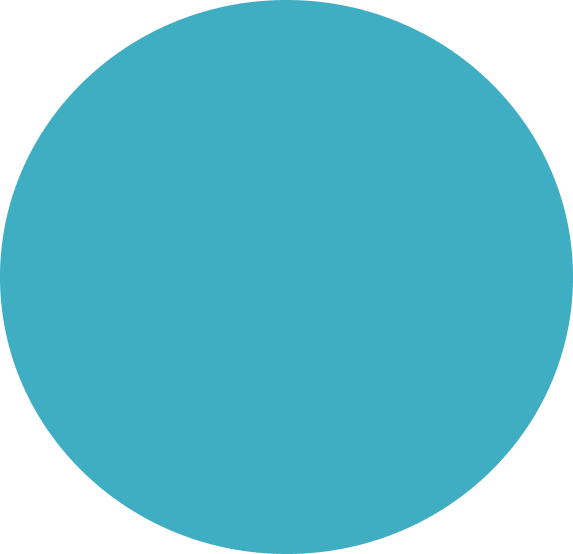
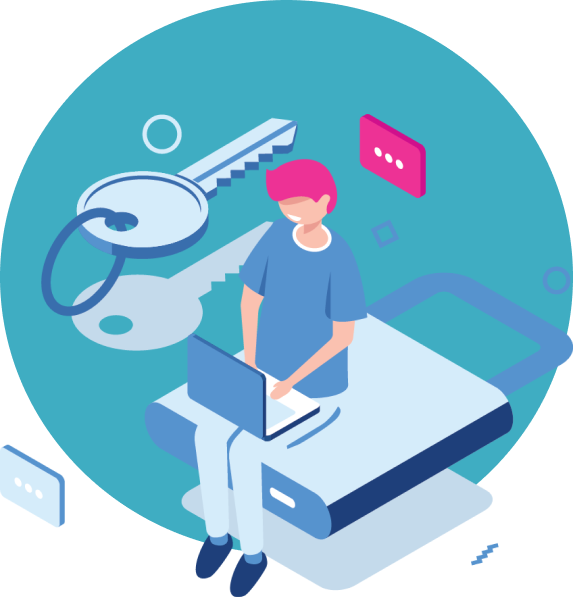
3

diff --git a/src/views/Home.vue b/src/views/Home.vue
@@ -4,15 +4,24 @@
       <v-flex md8 xl8 lg8 v-if="$vuetify.breakpoint.mdAndUp" class="background-flex1"
       >
         <img class="Ellipse" src="../assets/login/Ellipse.png" />
-        <img class="user-blue" src="../assets/login/user-blue.png" />
       </v-flex>
       <v-flex xs12 md4 xl4 lg4 class="background-flex2">
-        <img class="book" src="../assets/login/1.png" />
-        <img class="tab" src="../assets/login/2.png" />
-        <h2 class="tab-text">Welcome back</h2>
-        <v-layout row>
+        <v-layout row wrap>
           <v-flex xs12 md12 xl12 lg12>
-            <h2 class="text1">Smart</h2>
+            <img class="tab" src="../assets/login/2.png" />
+            <h2 class="tab-text">Welcome back</h2>
+          </v-flex>
+        </v-layout>
+        <v-layout
+          row
+          wrap
+          justify-center
+          align-center
+        >
+          <v-flex xs6 md6 xl6 lg6 style="text-align:right;">
+            <h2 class="text1 ">Smart</h2>
+          </v-flex>
+          <v-flex xs6 md6 xl6 lg6>
             <h2 class="text2">School</h2>
           </v-flex>
         </v-layout>
@@ -30,9 +39,11 @@
             ></v-text-field>
           </v-flex>
         </v-layout>
-        <v-layout row>
-          <v-flex xs8 md8 xl8 lg8 class="login">
-            <v-btn color="cyan darken-3" class="white--text" @click="fnLogin"> Login </v-btn>
+        <v-layout row justify-center align-center>
+          <v-flex xs12 md12 xl12 lg12 class="login">
+            <v-btn color="cyan darken-3" class="white--text" @click="fnLogin">
+              Login
+            </v-btn>
           </v-flex>
         </v-layout>
       </v-flex>
@@ -46,9 +57,9 @@ export default {
   components: {},
   methods: {
     fnLogin() {
-      this.$router.push("/index")
-    }
-  }
+      this.$router.push("/index");
+    },
+  },
 };
 </script>
 
@@ -57,35 +68,30 @@ export default {
   background-color: #0390a4;
   width: 100vw;
   height: 100vh;
+  position: relative;
 }
 .Ellipse {
-  width: 530px;
-  height: 530px;
-  margin-top: 100px;
-  margin-left: -17px;
+  /* position: absolute; */
+  width: 30rem;
+  height: 30rem;
+  margin-top: 10rem;
+  /* z-index: 2; */
+  /* margin-left: -17px; */
 }
-.user-blue {
-  width: 520px;
-  height: 450px;
-  margin-top: -400px;
-  margin-left: -17px;
-}
+
 .background-flex2 {
   background-color: #ffffff;
   width: 100vw;
   height: 100vh;
+  border-left: 1rem solid #C4C4C4;;
 }
-.book {
-  width: 1rem;
-  height: 100%;
-  float: left;
-}
+
 .tab {
   width: 349px;
   height: 74px;
   float: left;
   margin-top: 2rem;
-  margin-left: -17px;
+  margin-left: -6px;
   z-index: 1;
 }
 .tab-text {
@@ -99,21 +105,19 @@ export default {
 .text1 {
   color: #f5a82a;
   font-size: 3rem;
-  margin-top: 250px;
-  margin-left: -500px;
+  margin-top: 200px;
+   margin-right: 10px;
 }
 .text2 {
   color: #030303;
   font-size: 3rem;
-  margin-top: -72px;
-  margin-left: -180px;
+  margin-top: 200px;
 }
 .input {
   margin-left: 5px;
   margin-top: 30px;
 }
 .login {
-  margin-left: 80px;
-  
+  text-align:center;
 }
 </style>

diff --git a/src/router/index.js b/src/router/index.js
@@ -1,7 +1,6 @@
 import Vue from 'vue'
 import VueRouter from 'vue-router'
 import Home from '../views/Home.vue'
-import About from '../views/About.vue'
 import index  from '../layout/index.vue'
 
 Vue.use(VueRouter)
@@ -11,11 +10,6 @@ const routes = [
     path: '/',
     name: 'Home',
     component: Home
-  },
-  {
-    path: '/about',
-    name: 'About',
-    component: About
   },
   {
     path: '/index',

diff --git a/src/main.js b/src/main.js
@@ -2,6 +2,7 @@ import Vue from 'vue'
 import App from './App.vue'
 import vuetify from './plugins/vuetify'
 import router from './router'
+import 'vuetify/dist/vuetify.min.css'
 
 Vue.config.productionTip = false
 
